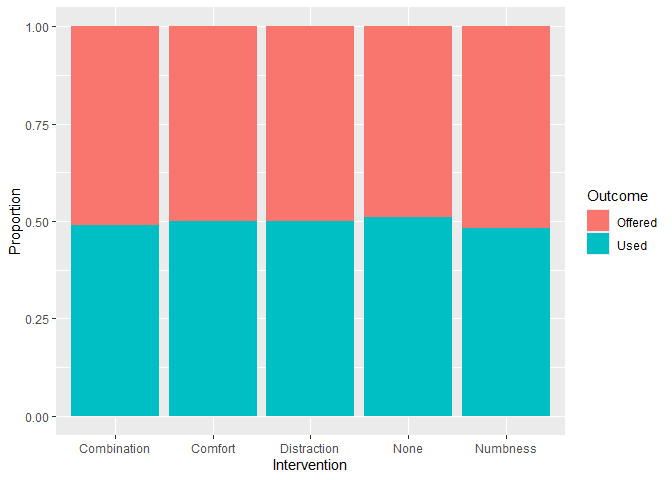
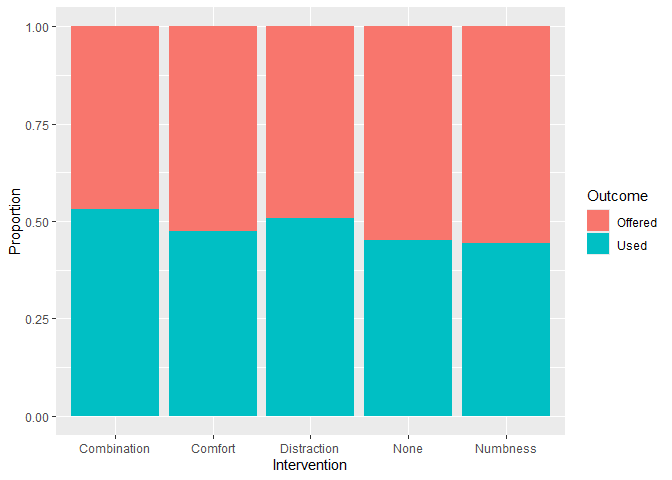
update from RStudio

Changed region(s): [[0.0938, 0.4375, 0.8438, 0.5312]]

diff --git a/yunopasta.md b/yunopasta.md
@@ -20,30 +20,30 @@ library(tidyverse)
     ## ℹ Use the conflicted package (<http://conflicted.r-lib.org/>) to force all conflicts to become errors
 
 ``` r
-PropUsed<-matrix(c(138,143,97,90,87,87,14,14,53,51),nrow=5,byrow=T)
+PropUsed<-matrix(c(178,146,99,79,77,79,21,19,52,59),nrow=5,byrow=T)
 colnames(PropUsed)<-c("Offered","Used")
 rownames(PropUsed)<-c("None","Numbness","Distraction","Comfort","Combination")
 PropUsed
 ```
 
     ##             Offered Used
-    ## None            138  143
-    ## Numbness         97   90
-    ## Distraction      87   87
-    ## Comfort          14   14
-    ## Combination      53   51
+    ## None            178  146
+    ## Numbness         99   79
+    ## Distraction      77   79
+    ## Comfort          21   19
+    ## Combination      52   59
 
 ``` r
 addmargins(prop.table(PropUsed))
 ```
 
     ##                Offered       Used        Sum
-    ## None        0.17829457 0.18475452 0.36304910
-    ## Numbness    0.12532300 0.11627907 0.24160207
-    ## Distraction 0.11240310 0.11240310 0.22480620
-    ## Comfort     0.01808786 0.01808786 0.03617571
-    ## Combination 0.06847545 0.06589147 0.13436693
-    ## Sum         0.50258398 0.49741602 1.00000000
+    ## None        0.22002472 0.18046972 0.40049444
+    ## Numbness    0.12237330 0.09765142 0.22002472
+    ## Distraction 0.09517923 0.09765142 0.19283066
+    ## Comfort     0.02595797 0.02348578 0.04944376
+    ## Combination 0.06427689 0.07292954 0.13720643
+    ## Sum         0.52781211 0.47218789 1.00000000
 
 ``` r
 PropUsed_df<- cbind(as_tibble(prop.table(PropUsed)), 
@@ -58,16 +58,16 @@ PropUsed_df
     ## # A tibble: 10 × 3
     ##    Intervention Outcome Proportion
     ##    <chr>        <chr>        <dbl>
-    ##  1 None         Offered     0.178 
-    ##  2 None         Used        0.185 
-    ##  3 Numbness     Offered     0.125 
-    ##  4 Numbness     Used        0.116 
-    ##  5 Distraction  Offered     0.112 
-    ##  6 Distraction  Used        0.112 
-    ##  7 Comfort      Offered     0.0181
-    ##  8 Comfort      Used        0.0181
-    ##  9 Combination  Offered     0.0685
-    ## 10 Combination  Used        0.0659
+    ##  1 None         Offered     0.220 
+    ##  2 None         Used        0.180 
+    ##  3 Numbness     Offered     0.122 
+    ##  4 Numbness     Used        0.0977
+    ##  5 Distraction  Offered     0.0952
+    ##  6 Distraction  Used        0.0977
+    ##  7 Comfort      Offered     0.0260
+    ##  8 Comfort      Used        0.0235
+    ##  9 Combination  Offered     0.0643
+    ## 10 Combination  Used        0.0729
 
 ``` r
 ggplot(PropUsed_df, aes(x = Intervention, y = Proportion, fill = Outcome)) +
@@ -84,4 +84,4 @@ chisq.test(PropUsed)
     ##  Pearson's Chi-squared test
     ## 
     ## data:  PropUsed
-    ## X-squared = 0.3688, df = 4, p-value = 0.985
+    ## X-squared = 3.4825, df = 4, p-value = 0.4806
